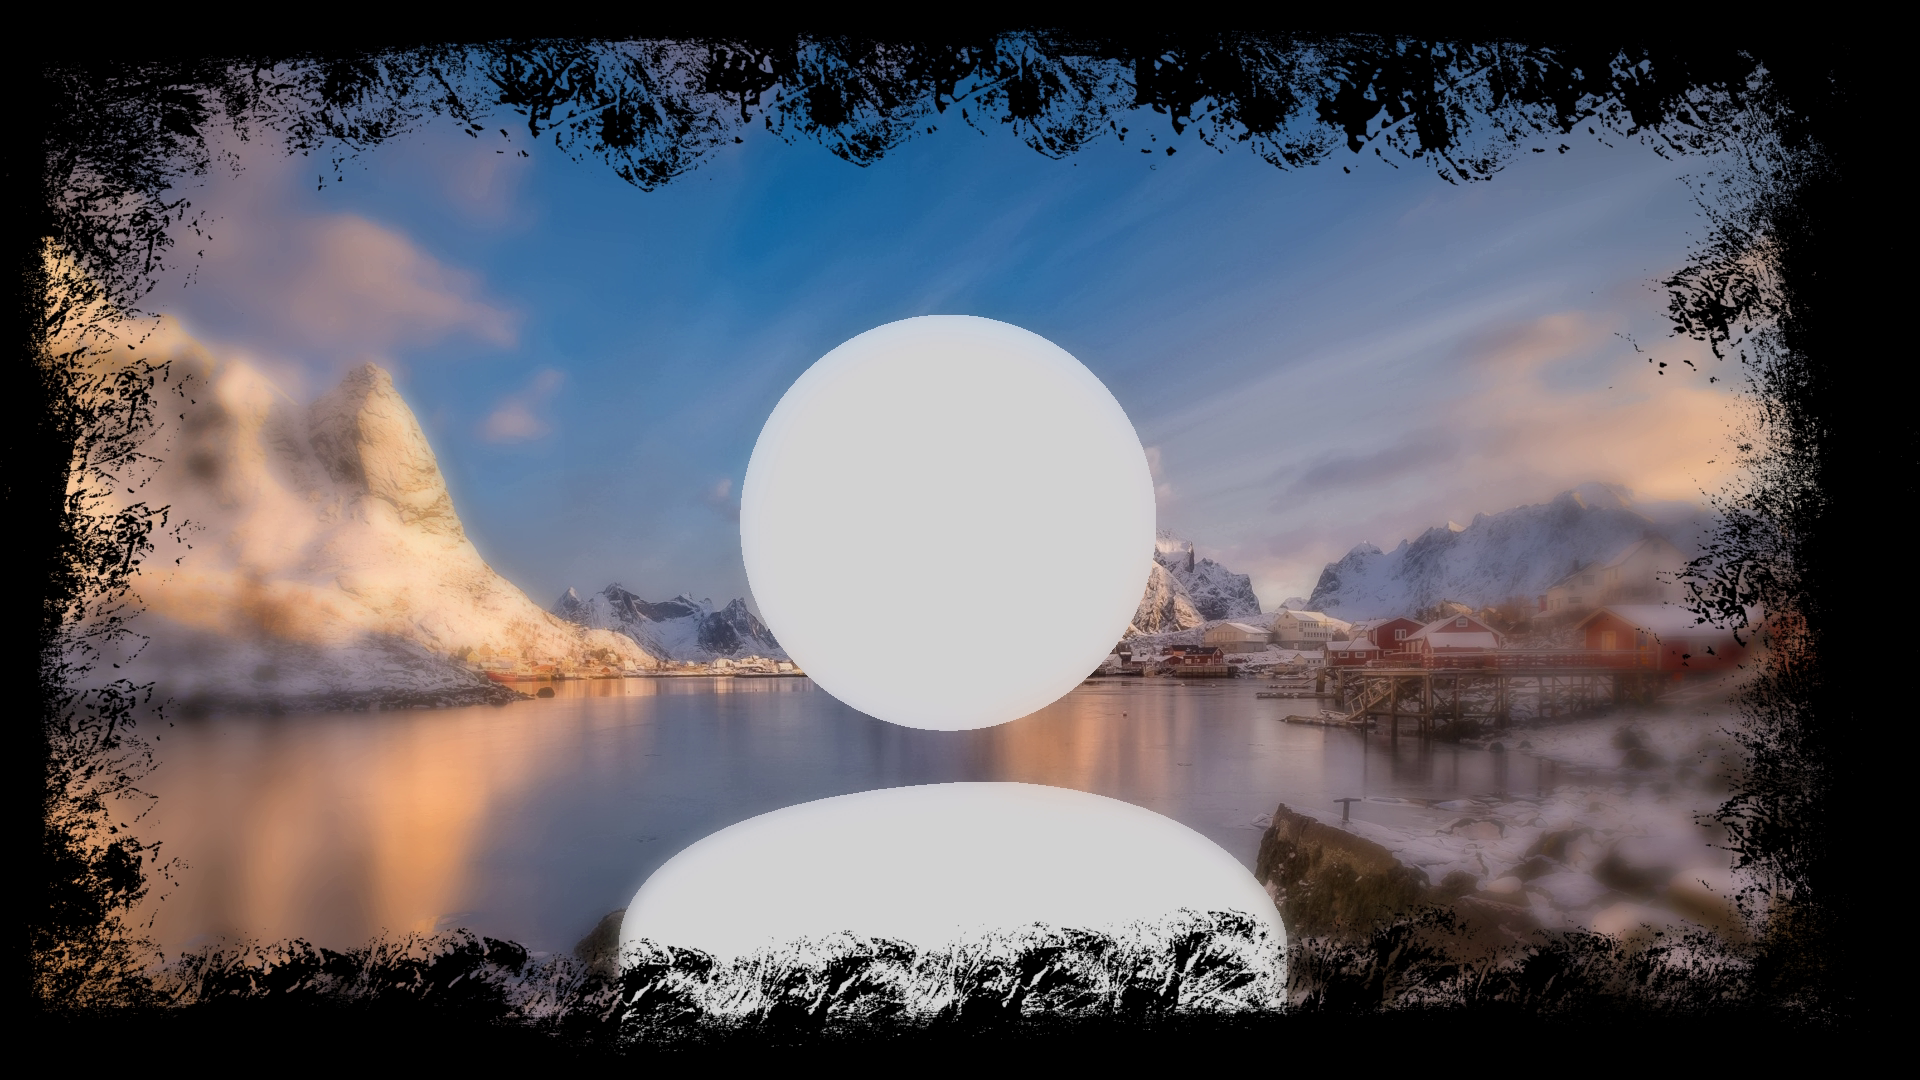
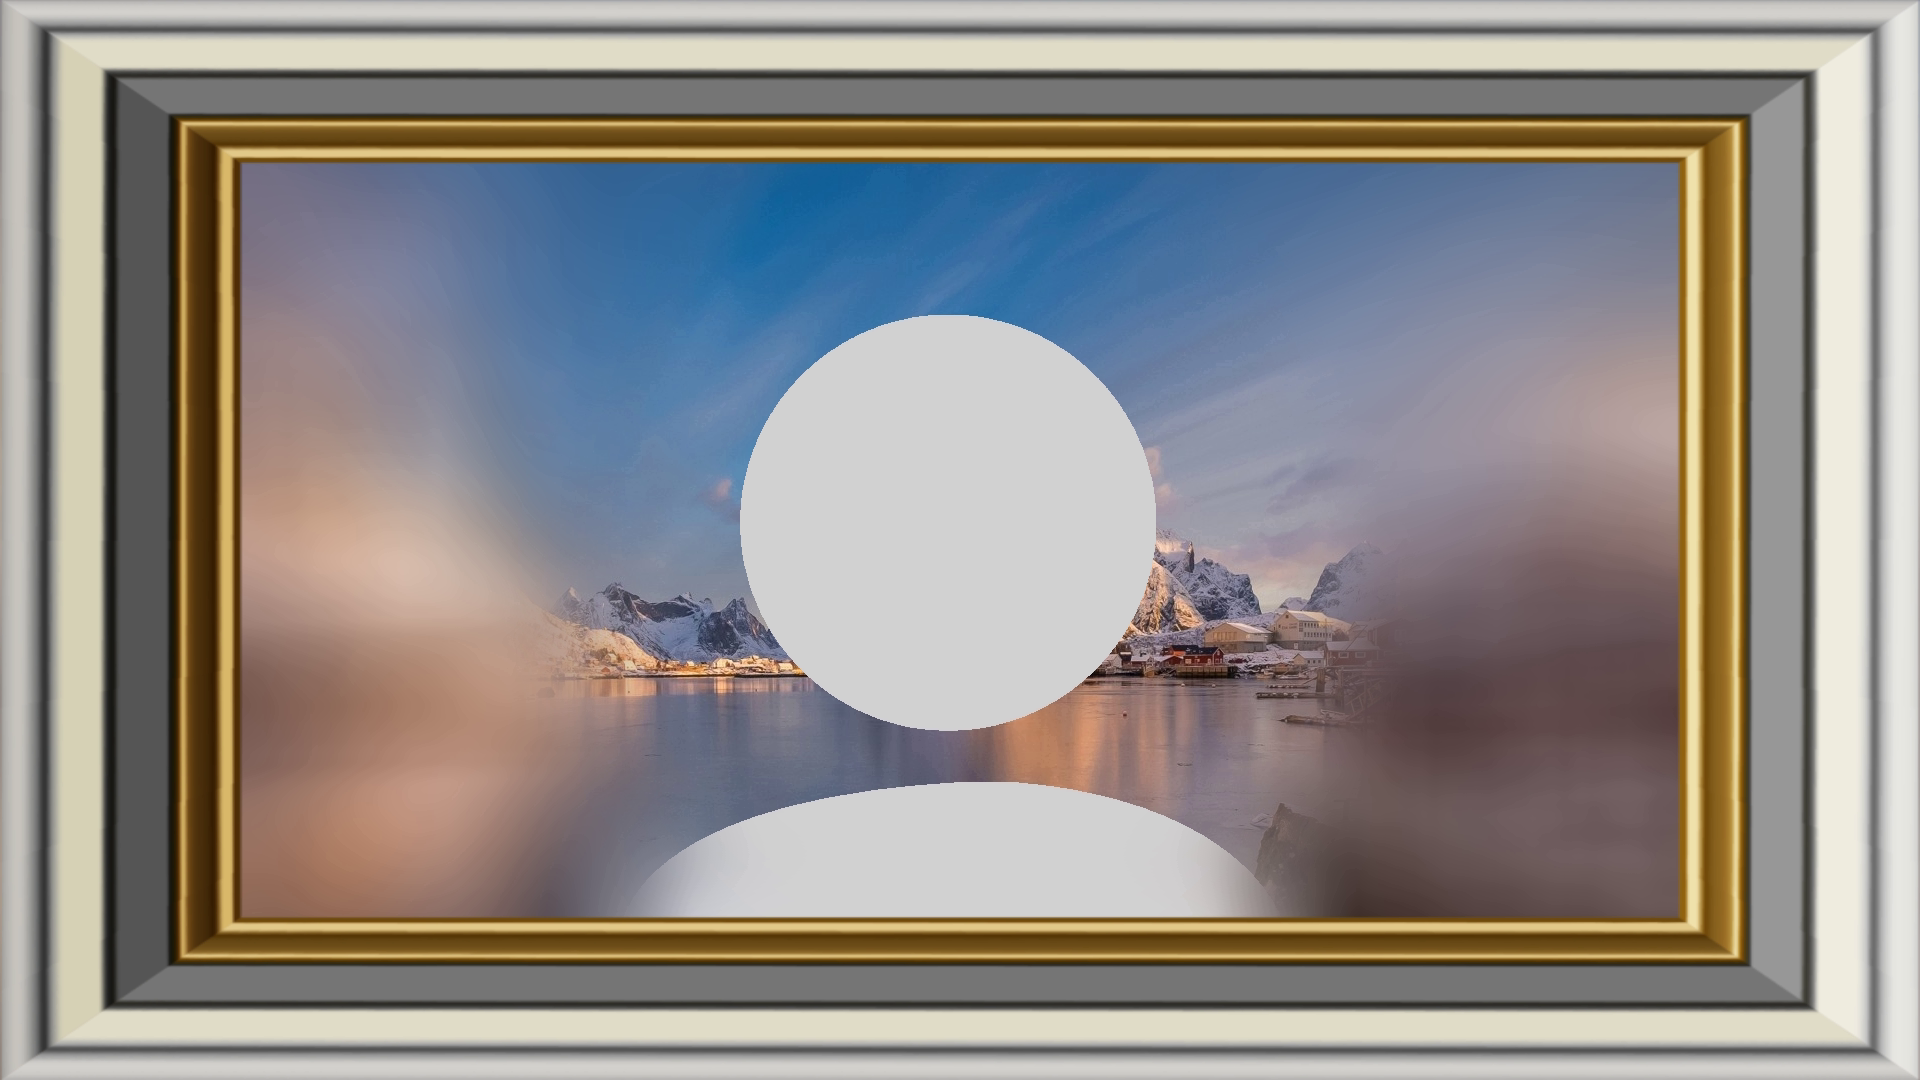
Document blur changes

diff --git a/README.md b/README.md
@@ -1,12 +1,12 @@
 # Webcam Video Effects 
 
-This series of scripts can stream a video or add photo effects to your webcam. This then sends that edited video stream to a new webcam, specifically `/dev/video2`. After the script runs, you can select the extra webcam as your video source on a zoom call, webex call, or any video call.
+A fast, lightweight webcam video enhancer. Add effects like a blurred background, overlayed images, and text to your webcam feed. This uses ffmpeg and v4l2loopback to output to a virtual webcam, which supports all video calls, including Zoom, WebEx, and Google Meet.
 
 Before | After
 :-----:|:------:
 ![Before](demo/no_effect.png) | ![After](demo/example_1.png)
 
-## Requirements
+## Installation
 
 This shell script uses ffmpeg and v4l2loopback-dkms for video manipulation, which is available on Windows, MacOS, and Linux.
 However, the script to stream to a webcam only works on Linux.
@@ -40,10 +40,10 @@ Calling the script `video_looper_complete.sh` without arguments streams to a web
 
 ### Blur
 
-There are multiple ways to blur the video input, namely `vignette`, `vignette-strong`, `box`, `box-strong`, `doublebox`, and `doublebox-strong`. The vignette option is not blurred in the center but blurs as approaching the sides. The box options have one bounding box for blurring the video, while the doublebox options have two to make a "fade out" into the blurred background. The strong options have stronger blurs than the normal blur options. To add a blur, use the `-B` flag as shown below:
+This program blurs out pixels on the outer edge of the webcam feed and keeps the center in focus. There are a few options for the shape of this focused section, namely `square`, `rect`, `portrait`, `circle`, and `ellipse`. All blur options fade into the background so there's no hard line separating the blurred video from the face. To add a blur, use the `-B` flag. To make the blur stronger, also append the `-S` flag as shown below:
 ```sh
-./video_looper_complete.sh -B vignette
-
+./video_looper_complete.sh -B portrait
+./video_looper_complete.sh -SB rect
 ```
 
 ### Meme-ifying a Video
@@ -79,20 +79,11 @@ However, you can also create fancier rotations by making rotation angle a functi
 ### Looping a Video to the Webcam
 
 Save a video file in the directory. Most video formats should work with this script. I recommend using [Guvcview](http://guvcview.sourceforge.net/) for taking videos using the webcam.  
-Then, run the video looper script to generate a lengthened video and stream it to `/dev/video2`.
+Then, run the video looper script to generate a lengthened video and stream it to `/dev/video2`. This will create a longer mp4 file that gets streamed to the webcam. By default, the video gets duplicated and played in reverse after it completes so that there is no "jump" from the last frame to the first. To remove this functionality (and never play the video in reverse), also add the `-s` (skip processing) flag.
 ```sh
 ./video_looper_complete.sh -v your_video.mp4
+./video_looper_complete.sh -sv dont_reverse_this_video.mp4
 ```
-This will create a longer mp4 file that gets streamed to the webcam. By default, the video gets duplicated and played in reverse after it completes so that there is no "jump" from the last frame to the first. To remove this functionality (and never play the video in reverse), add the `-s` flag.
-```sh
-./video_looper_complete.sh -sv your_unprocessed_video.mp4
-```
-
-### Tips for Looping a Video
-
-This script uses your video at normal speed and in reverse, so avoid talking or moving quickly in the video. Also, try to stay still during the first and last seconds of your video so that there is a gradual transition when the clip repeats. Use a video that's at least 25 seconds long.
-
-It's easy to switch video streams within Zoom or another video conferencing software, and if you use this script, it's very easy to generate a new video to stream each day you're on a call. I would recommend taking a new video every day and using that new video as necessary, since you may need to switch back and forth between this fake webcam and a real one if you need to speak during your call.
 
 ### Extra Options
 
@@ -100,3 +91,10 @@ For more options, run the following command (or read the help page):
 ```sh
 ./video_looper_complete.sh -h
 ```
+
+## Examples
+
+Command | Output
+:-----:|:------:
+./video_looper_complete.sh -B portrait -w static/solid_frame.png | ![](demo/example_1.png)
+./video_looper_complete.sh -B rect -t "what i call" -b "a living meme" -f Impact | ![](demo/example_2.png)

diff --git a/help.md b/help.md
@@ -41,7 +41,7 @@ Stream a video to a fake webcam or add effects to your current webcam video stre
     font for meme-ified text
 
 -B pattern
-    blur pattern: choose from box, box-strong, doublebox, and doublebox-strong
+    blur pattern: choose from square, rect, portrait, circle, and ellipse
 
 -z pattern
     rotation as a function of time; not to be used with -r
